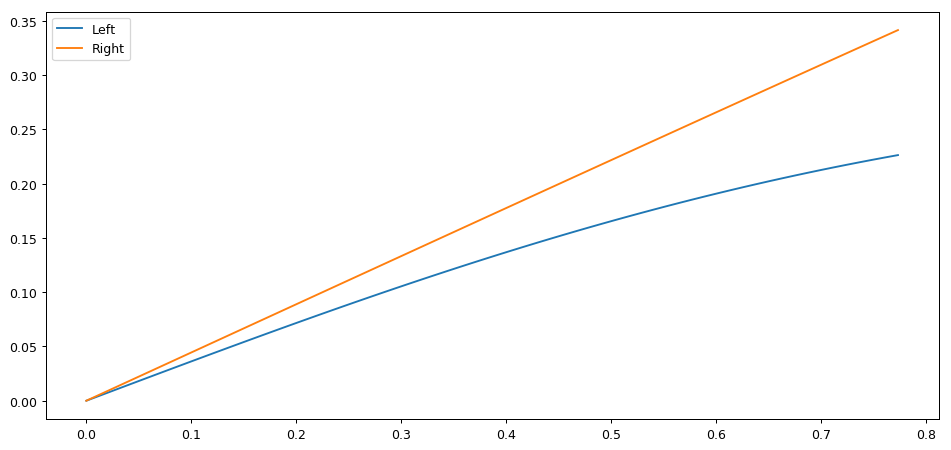
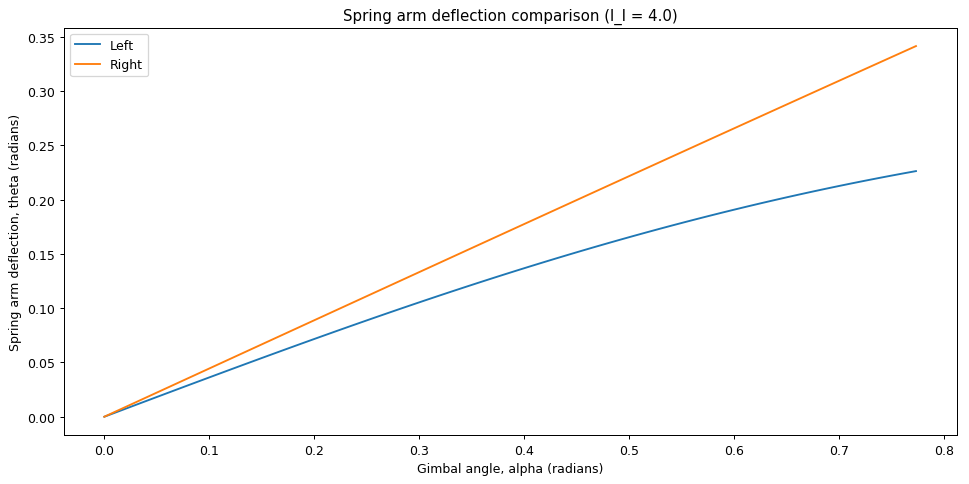
Updated blog post.

diff --git a/_content/blog/_posts/2019-06-12-gimbal-centering/2019-06-12-gimbal-centering.md b/_content/blog/_posts/2019-06-12-gimbal-centering/2019-06-12-gimbal-centering.md
@@ -1,6 +1,6 @@
 ---
 title: Controller Gimbal Centering
-subtitle: Surprisingly thoughtful design for a simple problem.
+subtitle: Modeling and optimizing physical designs with Sympy.
 mathjax: true
 link: https://colab.research.google.com/drive/1JMRrvIveDCNLbjjFnXhKRdBbqAS1PLMy
 ---
@@ -15,12 +15,6 @@ I was upgrading a gimbal in an R/C controller when I noticed that the design of 
 Each axis is has a separate centering mechanism with its own tension spring to provide the inwards force. As the gimbal is pushed away from the center position, the pin carriage it is attached to rotates. One of two pins on the carriage deflects a spring arm, which stretches a spring and provides the restorative force. Here's a diagram:
 
 {% include blogimage src="diagram.png" %}
-
-## Why go to all this trouble?
-
-Cost is often the overriding concern in making cheap consumer electronics and this design requires a single spring instead of alternate designs that use a pair. (Springs are pricey compared to an injection-molded part.) However, I have seen this design on relatively pricey (~$40) gimbals so the advantage is not just in cost.
-
-For R/C pilots, getting a crisp feedback around the zero position of the gimbal is desirable. This design guarantees crisp zeroing and allows for the restoring force deadzone to be controlled.
 
 ## The Problem
 
@@ -37,7 +31,7 @@ We assume a simple geometry with a frictionless side and a pin of infinitesimal 
     \right)
 \\]
 
-Assuming the left-side pin is about \\(l_l = 4mm\\) from the center, this looks like:
+Measuring the left-side pin to be about \\(l_l = 4mm\\) from the center, this looks like:
 
 ```python
 def theta(alpha : float, radius=None, arm_l=None, arm_r=None):
@@ -71,14 +65,15 @@ We use the [Golden Section search](https://en.wikipedia.org/wiki/Golden-section_
 left_l_opt = minimize_scalar(loss_partial, bracket=[1e-5, gp["right_l"]], method="golden")
 ```
 
-For \(l_l = 5.02 \text{mm}\) get this:
+After a few seconds, we get \\(l_l = 5.02 \text{mm}\\), which produces this curve:
 
 {% include blogimage src="opt_simple.png" %}
 
+Its much closer, and would be much more difficult to feel in the gimbal movement. Now let's explicitly model the force-response curve:
 
-## Force-Response
+## Force curves
 
-The output angle is useful to find a value of \(l_l\) that minimizes the difference in response, but ultimately we care about the force-response curve. Consider a preloaded spring (already stretched some distance `d`) with spring coefficient `k=0.01 N/mm`. We model the force response curve:
+The output angle is useful to find a value of \\(l_l\\) that minimizes the difference in response, but ultimately we care about the force-response curve. Consider a preloaded spring (already stretched some distance `d`) with spring coefficient `k=0.01 N/mm`. We model the force response curve:
 
 ```python
 def theta_to_force(theta, d=None, k=0.01, radius=None):
@@ -86,114 +81,98 @@ def theta_to_force(theta, d=None, k=0.01, radius=None):
 
 def plot_force(X, radius=None, left_l=None, right_l=None, d=None, k=0.01):
   ...
-
-plot_force(..., d=0), plot_force(..., d=2), plot_force(..., d=-2)
-plt.legend(["no preload", "2mm preload", "2mm slack"])
 ```
 
-{% include blogimage src="simple_forceresponse.png" %}
+We can compare the force curves for different values of \\(l_l\\). We can visually compare nearby values with our optimal value; the difference is barely perceptible.
+
+```python
+plot_force(..., left_l=4), plot_force(..., left_l=5.02), plot_force(..., left_l=6)
+```
+
+{% include blogimage src="simple_forceresponse_l.png" %}
+
 
 # Pin-Diameter Model
 
-So far, so simple. The problem with our model is the diameter of the pins is significant compared to the displacement. Now we model this using the symbolic solver `sympy`.
+So far, so simple. The problem with our model is the diameter of the pins (\\(\sim 1 \text{mm}\\)) is significant compared to the displacement. This means the point of contact between the spring arm and pin carriage slides along the spring arm as the angle changes.
+
+We model this using `sympy`, which lets us perform symbolic geometry calculations (among other things). It is overkill for this project, but is an interesting tool to explore.
+
+Sympy behaves a lot like a dataflow system. It allows you to define `symbols`, which are placeholders for values. You can perform operations (derivatives, translations, rotations, etc.) in terms of these symbols, and ultimately substitute real values and obtain solutions.
+
+We begin by defining the problem in terms of the symbols:
 
 ```
 import sympy as sym
-import mpmath as mpm
 
-pin_r = .5 #mm
-vert_disp = 0 #mm
-
-class GimbalSym(object):
-  def __init__(self):
-    # Structure of pins:
-    r, ll, lr = sym.symbols("r ll lr")
-    # Angle:
-    a, t = sym.symbols("a t")
-    # Spring setup:
-    pr, v = sym.symbols("pr v")
-    # Point where the lever arm touches the pin:
-    c = sym.symbols("c")
-    
-    # Center of rotation:
-    self.center = sym.Point(0, 0)
-    self.pin_arm = sym.Line2D(self.center, sym.Point(r, 0)).rotate(a)
-    self.right_pin = self.pin_arm.arbitrary_point(lr)
-    self.left_pin = self.pin_arm.rotate(sym.pi).arbitrary_point(ll)
-    self.radius = r
-
-    # Point at which the lever is fixed:
-    self.lever_fix = sym.Point(-r, v)
-    self.lever_arm = sym.Line2D(self.lever_fix, sym.Point(r, v)).rotate(t, self.lever_fix)
-    self.lever_arm_intersection_point = self.lever_arm.arbitrary_point(c)
-    
-    self.pin_radius = pr
-    pin = sym.Point(self.pin_radius, 0).rotate(t - sym.pi/2)
-    self.lever_arm_contact_point = self.lever_arm_intersection_point + pin    
-    
-    self.symbols = {"r": r, "ll": ll, "lr": lr, "a": a, "t": t, "pr": pr, "v": v, "c": c, "t": t}
-
-  def subst(self, e, alpha, radius=15, l_left=5, l_right=12, arm_displacement=1., pin_radius=1., theta=None, c=None):
-    args = [("a", alpha), ("ll", l_left/self.symbols["r"]), ("lr", l_right/self.symbols["r"]), ("r", radius), ("v", arm_displacement), ("pr", pin_radius)]
-    if theta is not None:
-      args.append(("t", theta))
-    if c is not None:
-      args.append(("c", c))
-    for sy, val in args:
-      e = e.subs(self.symbols[sy], val)
-    return e
-
-  def solve(self, *args, **kwargs):
-    t = self.symbols["t"]
-    c = self.symbols["c"]
-
-    def select_solution(possible):
-      for tv, cv in possible:
-        tv = tv.evalf()
-        cv = cv.evalf()
-        
-        if cv < 0 or cv > 1:
-          continue;
-        return tv, cv
-      return None
-    
-    closest_l = self.subst(self.lever_arm_contact_point - self.left_pin, *args, **kwargs)
-    p_closest_l = sym.solve((closest_l.x, closest_l.y), (t, c))
-    try:
-      t_l, c_l = select_solution(p_closest_l)
-    except TypeError:
-      t_l, c_l = 0.0, 0.0
-
-    closest_r = self.subst(self.lever_arm_contact_point - self.right_pin, *args, **kwargs)
-    p_closest_r = sym.solve((closest_r.x, closest_r.y), (t, c))
-    try:
-      t_r, c_r = select_solution(p_closest_r)
-    except TypeError:
-      t_r, c_r = 0.0, 0.0
-
-    return t_l, c_l, t_r, c_r
-
-  def get_theta(self, *args, **kwargs):
-    t_l, c_l, t_r, c_r = self.solve(*args, **kwargs)
-    # Figure out which control is binding:
-    binding = "left" if (t_r > sym.pi) or t_l > t_r else "right" 
-    
-    return (t_l if binding == "left" else t_r), binding
-  
-  def draw(self, ax, *args, **kwargs):
-    ...
-
-g = GimbalSym()
-
-fig, axes = plt.subplots(2, 2, sharex="all", sharey="all", figsize=(12., 8.))
-g.draw(axes[0, 0], -0.4), g.draw(axes[0, 1], -0.1), g.draw(axes[1, 0],  0.0), g.draw(axes[1, 1],  0.6)
+# Structure of pins:
+r  = sym.symbols("r")  # radius
+ll = sym.symbols("ll") # length_left, as a fraction of the radius
+lr = sym.symbols("lr") # length_right, as a fraction of the radius
+a  = sym.symbols("a")  # alpha
+t  = sym.symbols("t")  # theta
+pr = sym.symbols("pr") # pin radius
+v  = sym.symbols("v")  # vertical displacement of pin arm
 ```
+
+We describe the pin carriage in terms of these symbols. It passes through the origin and is rotated by angle `a`. The left and right pins extend `ll/r` and `lr/r` units along the line.
+
+```python    
+center = sym.Point(0, 0)
+pin_arm = sym.Line2D(center, sym.Point(r, 0)).rotate(a)
+right_pin = pin_arm.arbitrary_point(lr)
+left_pin = pin_arm.rotate(sym.pi).arbitrary_point(ll)
+```
+
+We can check our work with symbolic solutions for these! For example, `SymPy` evaluates `left_pin` to `Point2D(lr*r*cos(a), lr*r*sin(a))`.
+
+Similarly, we construct the sping arm. This is anchored at `(-r, v)` and is rotated by angle `t`. 
+
+```python
+# Point at which the lever is fixed:
+lever_fix = sym.Point(-r, v)
+lever_arm = sym.Line2D(lever_fix, sym.Point(r, v)).rotate(t, lever_fix)
+```    
+
+We assume that the pin is touching the spring arm some distance `c/(2r)` along the spring arm. We create an additional symbol `c` and model the contact point as being `pin_radius` away from `c`:
+
+```python
+# Point where the lever arm touches the pin:
+c = sym.symbols("c")
+lever_arm_intersection_point = lever_arm.arbitrary_point(c)
+pin = sym.Point(pin_radius, 0).rotate(t - sym.pi/2)
+lever_arm_contact_point = lever_arm_intersection_point + pin    
+```
+
+So far, we have constructed the spring arm and the pin carriage separately, without modeling the contact between the two. We do this by assuming each pin touches the spring arm and calculating the corresponding `theta`. The binding pin (the pin lifting the spring arm) will have the higher `theta`.
+
+```python
+# A utility function to perform symbol substitution
+def subst(e, alpha, radius=15, l_left=5, l_right=12, arm_displacement=1., pin_radius=1., theta=None, c=None):
+    ... # Substitute values for symbols.
+
+def solve(*args, **kwargs):
+    # Assume left pin is touching the spring arm:
+    closest_l = subst(lever_arm_contact_point - left_pin, *args, **kwargs)
+    p_closest_l = sym.solve((closest_l.x, closest_l.y), (t, c))
+    t_l, _ = select_solution(p_closest_l) # Select a valid solution
+    
+    # Assume right pin is touching the spring arm:
+    closest_r = subst(lever_arm_contact_point - right_pin, *args, **kwargs)
+    p_closest_r = sym.solve((closest_r.x, closest_r.y), (t, c))
+    t_r, _ = select_solution(p_closest_r)
+
+    binding = "left" if (t_r > sym.pi) or t_l > t_r else "right" 
+    return (t_l if binding == "left" else t_r), binding
+```
+
+Now that we have a way to model this, we can render images for different gimbal displacements:
 
 {% include blogimage src="model_gimbal_response.png" %}
 
 ## Optimizing This
 
-Now that we have a model, we can optimize this. This takes about an hour to run:
+Now that we have a model, we can optimize this exactly as we did before. This takes about half an hour to run on Google Colab:
 
 ```python
 X_left  = np.arange(-np.pi/6,  1e-4,  np.pi/6/8)
@@ -210,4 +189,8 @@ left_l_opt = minimize_scalar(loss_partial, bracket=[1e-5, gp["right_l"]], method
 plot_gimbalsym_theta(...)
 ```
 
+The new optimum is at \\(l_l = 4.83 \text{mm}\\), which produces this response curve:
 
+{% include blogimage src="pinmodel_forceresponse.png" %}
+
+Great!
